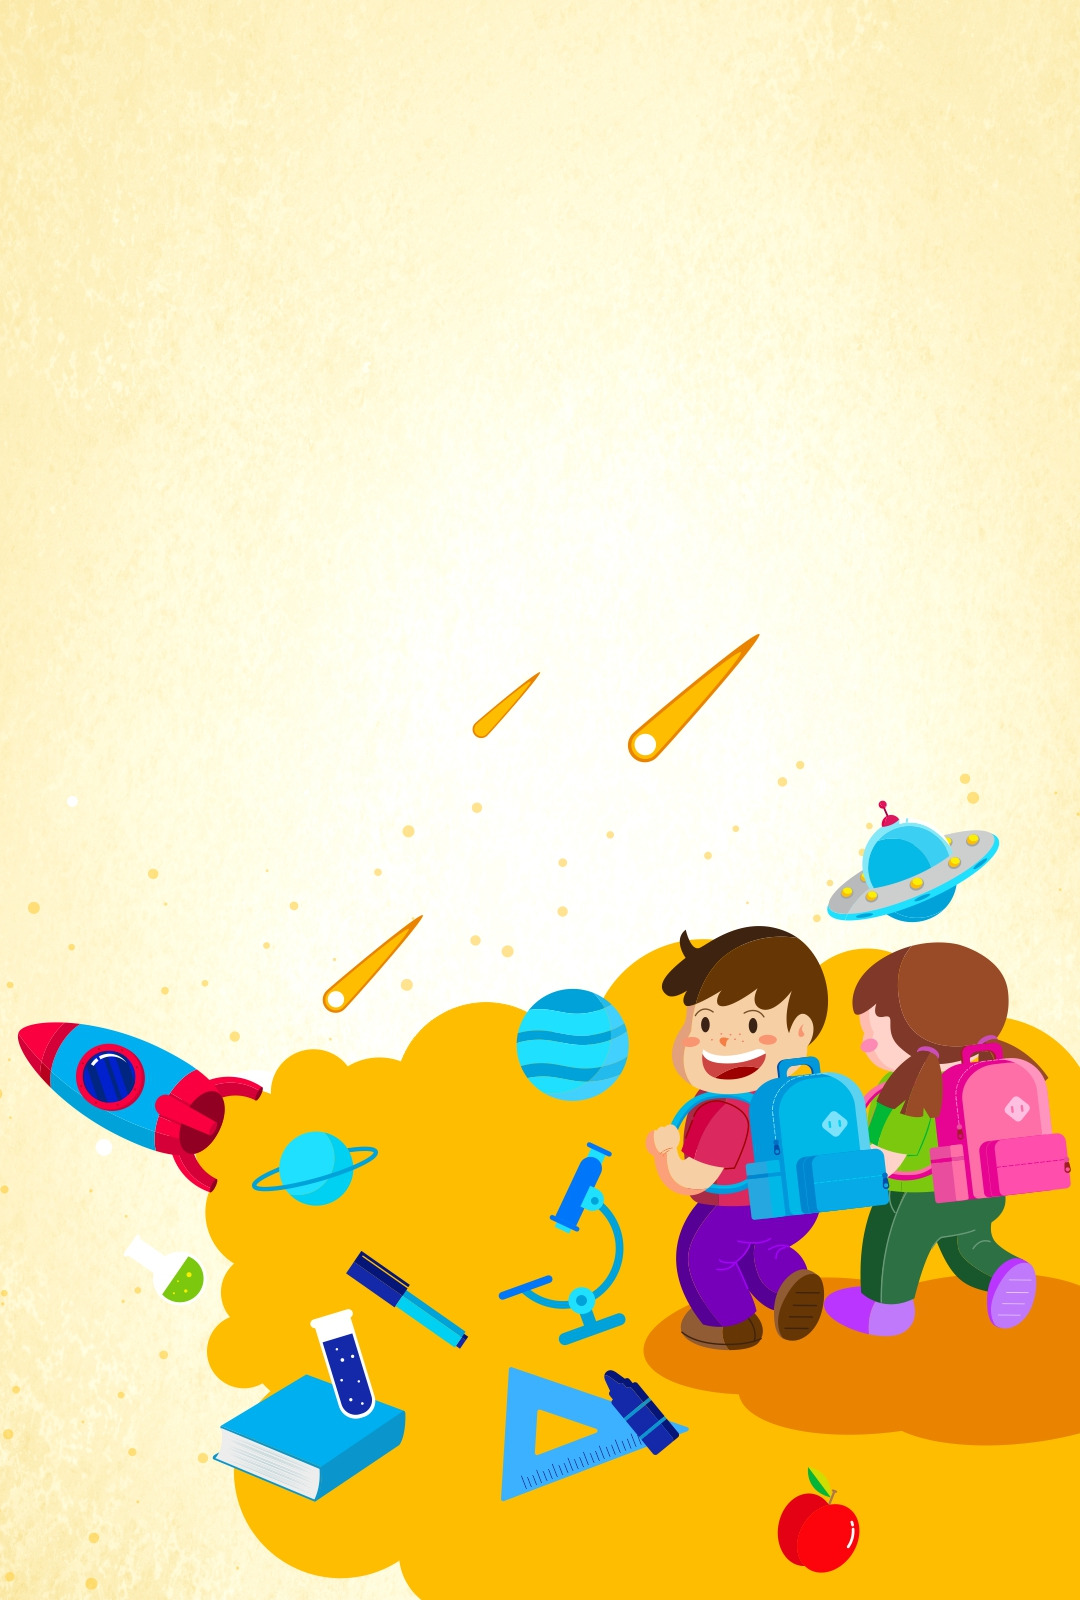
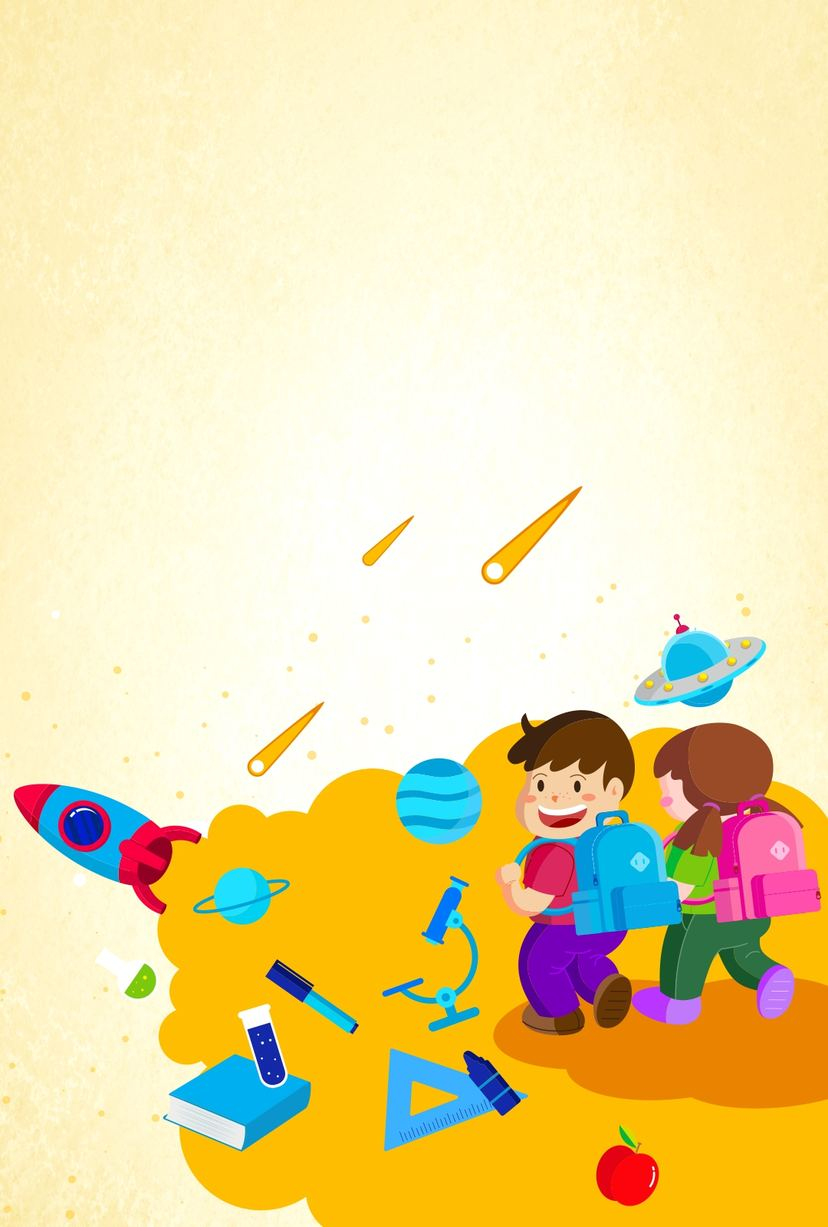
JGS Difference: Mokila wording, safety, SEO, prerender, H1, images
School-approved changes to /jgsdifference:
- Mokila curriculum sentence without a date or IB/CISCE claim.
- New safety sections: POCSO policy, background-verified staff, CCTV,
  GPS-tracked transport (two new icons in the existing style).
- Copy fixes (47 years, "Learning beyond the classroom", PE per week)
  and opening paragraph wording for Mokila.
- SeoService title/description/canonical/OG (old description tag was
  misspelt "decription" and never output).
- One H1; banner tagline no longer a heading on this page
  (new app-breadcrumb input taglineAsHeading, default true).
- Prerender /jgsdifference; .htaccess reference serves prerendered
  folders without a slash redirect (DirectorySlash Off + rewrite).
- Phone banner recompressed 834 KB -> 70 KB; alt text for the photo.

See docs/jgs-difference-changes.md.

Claude-Session: https://claude.ai/code/session_01RSWR35ysq5qEHbY9vkm3sN

diff --git a/src/app/eduman/jgsdifference/legacystandards/legacystandards.component.html b/src/app/eduman/jgsdifference/legacystandards/legacystandards.component.html
@@ -2,7 +2,7 @@
   <div class="container">
     <div class="row py-5">
       <div class="image" style="height: 500px; width: 100%;">
-        <img src="assets/img/whatsinaname/19.jpeg" alt="" srcset="" style="height: 100%; width: 100%; object-fit: cover" />
+        <img src="assets/img/whatsinaname/19.jpeg" alt="Students in graduation caps and gowns at a Johnson Grammar School graduation ceremony" width="1024" height="683" style="height: 100%; width: 100%; object-fit: cover" />
 
       </div>
     </div>
@@ -13,9 +13,10 @@
           <div class="row">
             <div class="col-md-12 col-lg-12">
               <div class="vTopBlockTwo text-center">
-                <h2>A learning experience that stands out.</h2>
+                <h1 class="jgsd-title">The JGS Difference</h1>
+                <p class="jgsd-lead">A learning experience that stands out.</p>
                 <p>
-                  At JGS, Mokila and Kokapet, we understand that every parent desires the best for their children. Hence, we’ve ensured that our students are given the best facilities that take care of their health, safety and other non-academic aspects. All of them influence our student’s learning outcomes positively and contribute to their overall well-being during their academic years at JGS and beyond.
+                  At JGS Kokapet, and at our new Mokila campus, we understand that every parent desires the best for their children. Hence, we’ve ensured that our students are given the best facilities that take care of their health, safety and other non-academic aspects. All of them influence our student’s learning outcomes positively and contribute to their overall well-being during their academic years at JGS and beyond.
                 </p>
               </div>
             </div>
@@ -76,14 +77,14 @@
               alt=""
             />
             <h2><span class="down-mark-line">Learning</span> beyond</h2>
-            <h4>Creating opportunities for building careers</h4>
+            <h4>Learning beyond the classroom</h4>
             <!-- <div class="border-bottom-blue"></div> -->
             <p>
               Extracurricular activities are a great way for students to apply
               their learnings in the real world. Termly, we conduct various
               activities such as Dance, Yoga, Art, Coding and Computing for all
-              classes (subject to change as per requirement). In addition to
-              that, two PE classes will be assigned to every class.
+              classes (subject to change as per requirement). In addition,
+              every class has two PE classes a week.
             </p>
           </div>
         </div>
@@ -112,10 +113,10 @@
               alt=""
             />
             <h2><span class="down-mark-line">Legacy</span></h2>
-            <h4>Delivering quality education <br />for over 47+ years</h4>
+            <h4>Delivering quality education <br />for 47 years</h4>
             <!-- <div class="border-bottom-blue"></div> -->
             <p>
-              Being in the field for over 47 years; we have changed almost every aspect of our approach.
+              In our 47 years in education, we have changed almost every aspect of our approach.
                From how we teach to how we test, we have made sure that we adapt quickly and accurately to the modern world.
                And this is what makes us stand out from the rest.
             </p>
@@ -129,7 +130,7 @@
             />
             <h2>Global <span class="down-mark-line">Standards</span></h2>
             <p>
-              One of the greatest strengths of education is that it knows no boundaries. Learning can happen anywhere, from anyone, and at any stage of life. As India evolved and the world became increasingly interconnected, it became essential to provide future generations with an education that met global standards while remaining rooted in strong values. We began this journey with the ICSE curriculum and later expanded to include the ISC and IB Diploma Programme (IBDP), offering students internationally benchmarked learning opportunities. Continuing this vision, we established Johnson Grammar School, Kokapet, which offers the International Baccalaureate Primary Years Programme (IB PYP). Our Mokila Campus will offer both IB and ICSE Curriculum from Academic year 2027.
+              One of the greatest strengths of education is that it knows no boundaries. Learning can happen anywhere, from anyone, and at any stage of life. As India evolved and the world became increasingly interconnected, it became essential to provide future generations with an education that met global standards while remaining rooted in strong values. We began this journey with the ICSE curriculum and later expanded to include the ISC and IB Diploma Programme (IBDP), offering students internationally benchmarked learning opportunities. Continuing this vision, we established Johnson Grammar School, Kokapet, which offers the International Baccalaureate Primary Years Programme (IB PYP). Our new Mokila campus is planned to offer the IB and ICSE curricula.
             </p>
           </div>
         </div>
@@ -142,6 +143,54 @@
             <h2>Zero <span class="down-mark-line">Tolerance</span> Policy</h2>
             <p>
               JGS has a Zero Tolerance Policy for any sort of corporal punishment and child abuse. Every staff member gives a written undertaking to follow this policy before their recruitment. Any violations are strictly dealt with.
+            </p>
+          </div>
+        </div>
+        <div class="col-lg-6 col-md-6">
+          <div class="text-center vLegacyBlock">
+            <img
+              src="assets/img/whatsinaname/Icons/jgs-difference/child-protection.png"
+              alt=""
+            />
+            <h2><span class="down-mark-line">POCSO</span> Policy</h2>
+            <p>
+              We follow a written child protection policy under the Protection of Children from Sexual Offences (POCSO) Act, 2012.
+            </p>
+          </div>
+        </div>
+        <div class="col-lg-6 col-md-6">
+          <div class="text-center vLegacyBlock">
+            <img
+              src="assets/img/whatsinaname/Icons/jgs-difference/staff-verified.png"
+              alt=""
+            />
+            <h2>Background-<span class="down-mark-line">Verified</span> Staff</h2>
+            <p>
+              Our staff are background-verified before they join JGS.
+            </p>
+          </div>
+        </div>
+        <div class="col-lg-6 col-md-6">
+          <div class="text-center vLegacyBlock">
+            <img
+              src="assets/img/whatsinaname/facilities-landing/01.png"
+              alt=""
+            />
+            <h2><span class="down-mark-line">CCTV</span> Surveillance</h2>
+            <p>
+              Our campus is under 24x7 CCTV surveillance, with security guards on duty round the clock.
+            </p>
+          </div>
+        </div>
+        <div class="col-lg-6 col-md-6">
+          <div class="text-center vLegacyBlock">
+            <img
+              src="assets/img/whatsinaname/facilities-landing/04.png"
+              alt=""
+            />
+            <h2><span class="down-mark-line">GPS-Tracked</span> Transport</h2>
+            <p>
+              Our school buses are GPS-tracked.
             </p>
           </div>
         </div>

diff --git a/src/app/eduman/common/breadcrumb/breadcrumb.component.scss b/src/app/eduman/common/breadcrumb/breadcrumb.component.scss
@@ -16,13 +16,14 @@
 .hero-arera.course-item-height::before{
     background: transparent;
 }
-.facilities-page .vBreadHead h2,.facilities-page .breadcrumb-item a,.facilities-page .breadcrumb-item span{
+.facilities-page .vBreadHead h2,.facilities-page .vBreadHead .breadcrumb-tagline,.facilities-page .breadcrumb-item a,.facilities-page .breadcrumb-item span{
     // font-size: 40px;
     color: #fff!important;
 }
-.vBreadHead h2 {
+.vBreadHead h2, .vBreadHead .breadcrumb-tagline {
     font-size: 40px;
     color: #000;
+    margin-bottom: 15px;
 }
 .breadcrumb-item a{
     color: #000;
@@ -67,7 +68,7 @@
     .vDesktop {
         display: none!important;
     }
-    .vBreadHead h2 {
+    .vBreadHead h2, .vBreadHead .breadcrumb-tagline {
         font-size: 25px;
         margin: 15px 0 0 0;
     }
@@ -83,7 +84,7 @@
     }
 }
 @media (min-width:768px) and (max-width:860px){
-    .vBreadHead h2{
+    .vBreadHead h2, .vBreadHead .breadcrumb-tagline{
         font-size: 28px;
     }
     .hero-arera.course-item-height{
@@ -91,7 +92,7 @@
     }
 }
 @media (min-width:861px) and (max-width:930px){
-    .vBreadHead h2{
+    .vBreadHead h2, .vBreadHead .breadcrumb-tagline{
         font-size: 28px;
     }
     .hero-arera.course-item-height{
@@ -99,7 +100,7 @@
     }
 }
 @media (min-width:931px) and (max-width:1090px){
-    .vBreadHead h2{
+    .vBreadHead h2, .vBreadHead .breadcrumb-tagline{
         font-size: 28px;
     }
     .hero-arera.course-item-height{
@@ -107,10 +108,16 @@
     }
 }
 @media (min-width:1091px) and (max-width:1399px){
-    .vBreadHead h2{
+    .vBreadHead h2, .vBreadHead .breadcrumb-tagline{
         font-size: 28px;
     }
     .hero-arera.course-item-height{
         min-height: 195px;
     }
+}
+// Tagline shown as text instead of a heading (taglineAsHeading = false): same look as the h2.
+.vBreadHead .breadcrumb-tagline {
+    font-family: "Raleway", sans-serif;
+    font-weight: 700;
+    line-height: 1.3;
 }

diff --git a/src/app/eduman/jgsdifference/jgsdifferencemain.component.ts b/src/app/eduman/jgsdifference/jgsdifferencemain.component.ts
@@ -1,5 +1,5 @@
 import { Component, OnInit, ViewEncapsulation } from '@angular/core';
-import { Meta, Title } from '@angular/platform-browser';
+import { SeoService } from '../seo.service';
 
 @Component({
   selector: 'app-jgsdifferencemain',
@@ -9,11 +9,17 @@ import { Meta, Title } from '@angular/platform-browser';
 })
 export class JgsdifferencemainComponent implements OnInit {
 
-  constructor(private title:Title, private meta: Meta) { }
+  constructor(private seo: SeoService) {}
 
   ngOnInit(): void {
-    this.title.setTitle('Best School in Mokila and Kokapet | Nursery Schools in Gachibowli Hyderabad');
-    this.meta.addTag({name: 'decription', content: 'JGS is one of the best international schools in Mokila and Kokapet, HYD which offers programs based on a project-based learning approach. Best schools in Kokapet.'})
+    // Title, description, canonical link and social sharing tags.
+    // (The old code set the description under a misspelt name, "decription", so Google never saw it.)
+    this.seo.apply({
+      title: 'The JGS Difference | Small Classes, Safety & Care | JGS Kokapet & Mokila',
+      description: 'Why parents choose Johnson Grammar School in Hyderabad: a maximum of 24 students per class, background-verified staff, CCTV, a POCSO policy, GPS-tracked buses and 47 years of experience.',
+      path: '/jgsdifference',
+      shareTitle: 'The JGS Difference | Johnson Grammar School, Hyderabad',
+      shareDescription: 'Small classes of up to 24, child safety first, and 47 years of experience in Hyderabad.'
+    });
   }
-
 }

diff --git a/src/app/eduman/common/breadcrumb/breadcrumb.component.html b/src/app/eduman/common/breadcrumb/breadcrumb.component.html
@@ -5,7 +5,8 @@
          <div class="row">
             <div class="col-xl-12 vHeadTextAlignment">
                <div class="hero-course-1-text vBreadHead">
-                  <h2>{{breadcrumbTitle ? breadcrumbTitle : lineOne}} <br/>{{lineTwo}}</h2>
+                  <h2 *ngIf="taglineAsHeading">{{breadcrumbTitle ? breadcrumbTitle : lineOne}} <br/>{{lineTwo}}</h2>
+                  <p *ngIf="!taglineAsHeading" class="breadcrumb-tagline">{{breadcrumbTitle ? breadcrumbTitle : lineOne}} <br/>{{lineTwo}}</p>
                </div>
                <div class="course-title-breadcrumb">
                   <nav>
@@ -27,7 +28,8 @@
         <div class="row">
            <div class="col-xl-12">
               <div class="hero-course-1-text vBreadHead">
-                 <h2>{{breadcrumbTitle ? breadcrumbTitle : lineOne}} <br/>{{lineTwo}}</h2>
+                 <h2 *ngIf="taglineAsHeading">{{breadcrumbTitle ? breadcrumbTitle : lineOne}} <br/>{{lineTwo}}</h2>
+                  <p *ngIf="!taglineAsHeading" class="breadcrumb-tagline">{{breadcrumbTitle ? breadcrumbTitle : lineOne}} <br/>{{lineTwo}}</p>
               </div>
               <div class="course-title-breadcrumb">
                  <nav>

diff --git a/src/app/eduman/common/breadcrumb/breadcrumb.component.ts b/src/app/eduman/common/breadcrumb/breadcrumb.component.ts
@@ -14,6 +14,12 @@ export class BreadcrumbComponent implements OnInit {
   @Input() imgMobName: string | undefined;
   @Input() lineOne: string | undefined;
   @Input() lineTwo: string | undefined;
+  /**
+   * true (default): the banner tagline is an <h2>, as before.
+   * false: it is styled the same but is not a heading, for pages whose real
+   * <h1> is in the page body (the banner appears twice, for desktop and mobile).
+   */
+  @Input() taglineAsHeading = true;
 
   
   constructor() { }

diff --git a/src/app/eduman/jgsdifference/legacystandards/legacystandards.component.scss b/src/app/eduman/jgsdifference/legacystandards/legacystandards.component.scss
@@ -24,3 +24,28 @@
         padding: 0 0;
     }
 }
+// Page title (one H1) and intro line (brief items 4)
+.vTopBlockTwo {
+  .jgsd-title {
+    font-size: 40px;
+    margin-bottom: 8px;
+  }
+
+  .jgsd-lead {
+    font-family: "Raleway", sans-serif;
+    font-size: 24px;
+    font-weight: 700;
+    color: #141517;
+    margin-bottom: 12px;
+  }
+
+  @media (max-width: 767px) {
+    .jgsd-title {
+      font-size: 30px;
+    }
+
+    .jgsd-lead {
+      font-size: 20px;
+    }
+  }
+}

diff --git a/src/app/eduman/jgsdifference/jgsdifferencemain.component.html b/src/app/eduman/jgsdifference/jgsdifferencemain.component.html
@@ -6,6 +6,7 @@
     breadcrumbSubTitle="JGS Difference"
     imgName="JGSDifference"
     imgMobName="JGSDifferenceMob"
+    [taglineAsHeading]="false"
   ></app-breadcrumb>
   <app-legacystandards></app-legacystandards>
   <!-- <app-standout></app-standout> -->

diff --git a/docs/jgs-difference-changes.md b/docs/jgs-difference-changes.md
@@ -1,0 +1,51 @@
+# JGS Difference page (/jgsdifference) changes
+
+Branch: `jgs-difference-page`. All changes were approved by the school.
+
+## Content
+
+| # | Change |
+|---|---|
+| 24:2 | The "24:2 Student-teacher ratio" section is replaced with the school's text: **"Small Cohort, Big Attention – 24 per Class"**, the subheading "An Excellent Student–Teacher Ratio", and the new body copy. |
+| 1 | Global Standards: *"Our Mokila Campus will offer both IB and ICSE Curriculum from Academic year 2027"* becomes *"Our new Mokila campus is planned to offer the IB and ICSE curricula."* The IB's guidance warns against tying a programme to a date before candidacy, and Mokila's CISCE affiliation is still pending. Do not add dates or IB/CISCE logos for Mokila. |
+| 5 | Four safety sections are added after "Zero Tolerance Policy": **POCSO Policy, Background-Verified Staff, CCTV Surveillance, GPS-Tracked Transport**. The wording matches the /home safety section. Two new icons match the existing set: `Icons/jgs-difference/child-protection.png` and `staff-verified.png`. CCTV and transport reuse the facilities icons. |
+| 6 | Copy fixes: "for over 47+ years" becomes "for 47 years"; "Creating opportunities for building careers" becomes "Learning beyond the classroom"; "two PE classes will be assigned to every class" becomes "every class has two PE classes a week". |
+| 7 | Opening paragraph: "At JGS, Mokila and Kokapet" becomes "At JGS Kokapet, and at our new Mokila campus". |
+
+## SEO and AI readiness
+
+| # | Change |
+|---|---|
+| 2 | Title: "The JGS Difference \| Small Classes, Safety & Care \| JGS Kokapet & Mokila". The page now sets a real meta description (the old code used the misspelt name `decription`, so none was ever output), plus a canonical link and Open Graph/Twitter tags, via `SeoService`. |
+| 3 | **The page is prerendered**: `/jgsdifference` was added to the prerender routes in `angular.json`, so `dist/eduman/browser/jgsdifference/index.html` contains the full text. |
+| 4 | One H1, "The JGS Difference". "A learning experience that stands out." is now a lead line. The banner tagline ("Learn to grow / Grow to develop", which appeared twice for desktop and mobile) is no longer a heading on this page. This uses a new `[taglineAsHeading]="false"` input on `app-breadcrumb`. Other pages are unchanged; it defaults to `true`. |
+| 8 | `JGSDifferenceMob.jpg` (phone banner) recompressed from 834 KB to 70 KB at 828 px wide; same file name, no visible difference. The campus photo now has alt text. |
+
+## Deploy: one .htaccess change is needed
+
+Prerendered pages are output as folders (`jgsdifference/index.html`). Add these two parts from `deploy/htaccess-example` to `public_html/.htaccess`:
+
+1. Near the top, after `DirectoryIndex index.html`:
+   ```apache
+   DirectorySlash Off
+   ```
+2. Inside the rewrite block, **after** the `^contact/?$` rule and **before** "Serve existing files and directories":
+   ```apache
+   RewriteCond %{REQUEST_FILENAME}/index.html -f
+   RewriteRule ^(.+?)/?$ /$1/index.html [L]
+   ```
+
+Without these lines the page still works, but Apache first redirects `/jgsdifference` to `/jgsdifference/`. With them, the page is served directly at `/jgsdifference`, which matches its canonical link. Any future page added to the prerender routes is picked up automatically. `DirectorySlash Off` also stops the current `/contact` → `/contact/` redirect.
+
+Build as before: `npm ci --legacy-peer-deps`, then `NODE_OPTIONS=--openssl-legacy-provider npx ng run eduman:prerender`. Upload all of `dist/eduman/browser/`, including the new `jgsdifference/` folder.
+
+## Tested (local production build, with the new .htaccess behaviour emulated)
+
+- `/jgsdifference` and `/jgsdifference/` both return the prerendered page. `/about` still gets the app shell; `/` is still the prerendered home page.
+- Raw HTML has the new title, description, canonical and 7 Open Graph tags; one H1; no banner headings; all new text; none of the old wording.
+- In a browser, all 14 section icons load (including the two new ones). The banner tagline looks the same as before (28 px, bold). The phone banner is 72 KB.
+
+## After deploying, please check
+
+- `curl -s https://www.jgschool.in/jgsdifference | grep "24 per Class"` returns a match, with no redirect (`curl -sI` shows 200).
+- `https://www.jgschool.in/contact` opens without redirecting to `/contact/`.
